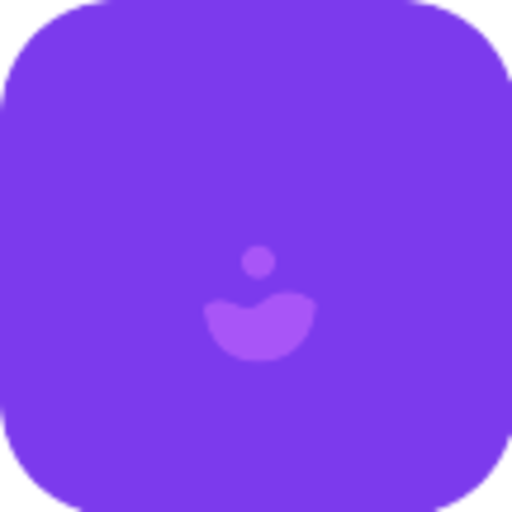
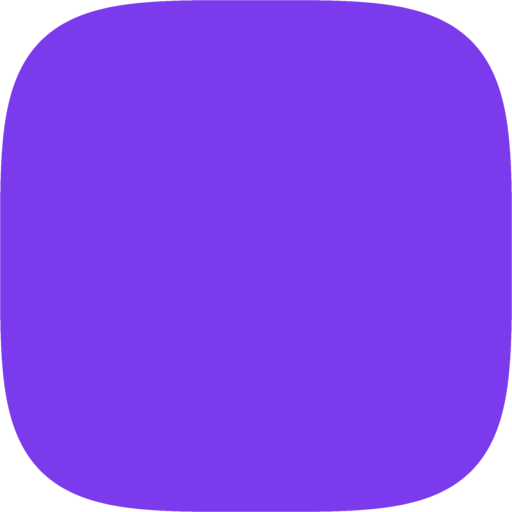
docs: Simplify README screenshot layout

diff --git a/README.md b/README.md
@@ -1,9 +1,5 @@
 # Linkahest
 
-<p align="center">
-  <img src="docs/images/linkahest-icon-512.png" width="160" height="160" alt="Linkahest icon">
-</p>
-
 [![License: Apache 2.0](https://img.shields.io/badge/License-Apache%202.0-blue.svg)](https://www.apache.org/licenses/LICENSE-2.0)
 [![Android](https://img.shields.io/badge/Platform-Android-green.svg)](https://www.android.com)
 [![Kotlin](https://img.shields.io/badge/Language-Kotlin-purple.svg)](https://kotlinlang.org)
@@ -11,6 +7,8 @@
 Linkahest cleans shared links before they leave your phone. Send YouTube, Twitter/X, Reddit, Medium, and other URLs through it to strip trackers or open them through alternative frontends.
 
 It runs locally, requests no network permission, and keeps history off unless you turn it on.
+
+![Home screen](docs/screenshots/main-screen.png)
 
 ## Features
 
@@ -22,11 +20,11 @@ It runs locally, requests no network permission, and keeps history off unless yo
 - Keeps transformed-link history disabled by default.
 - Supports light, dark, and system themes.
 
-## Screenshots
+## Additional Screenshots
 
-| Home | Transform Link | Result | Settings |
-|:----:|:--------------:|:------:|:--------:|
-| ![Home screen](docs/screenshots/main-screen.png) | ![Transform link](docs/screenshots/transform-link.png) | ![Transformed result](docs/screenshots/transform-link-final.png) | ![Settings](docs/screenshots/settings-new.png) |
+| Transform Link | Result | Settings |
+|:--------------:|:------:|:--------:|
+| ![Transform link](docs/screenshots/transform-link.png) | ![Transformed result](docs/screenshots/transform-link-final.png) | ![Settings](docs/screenshots/settings-new.png) |
 
 ## Installation
 
